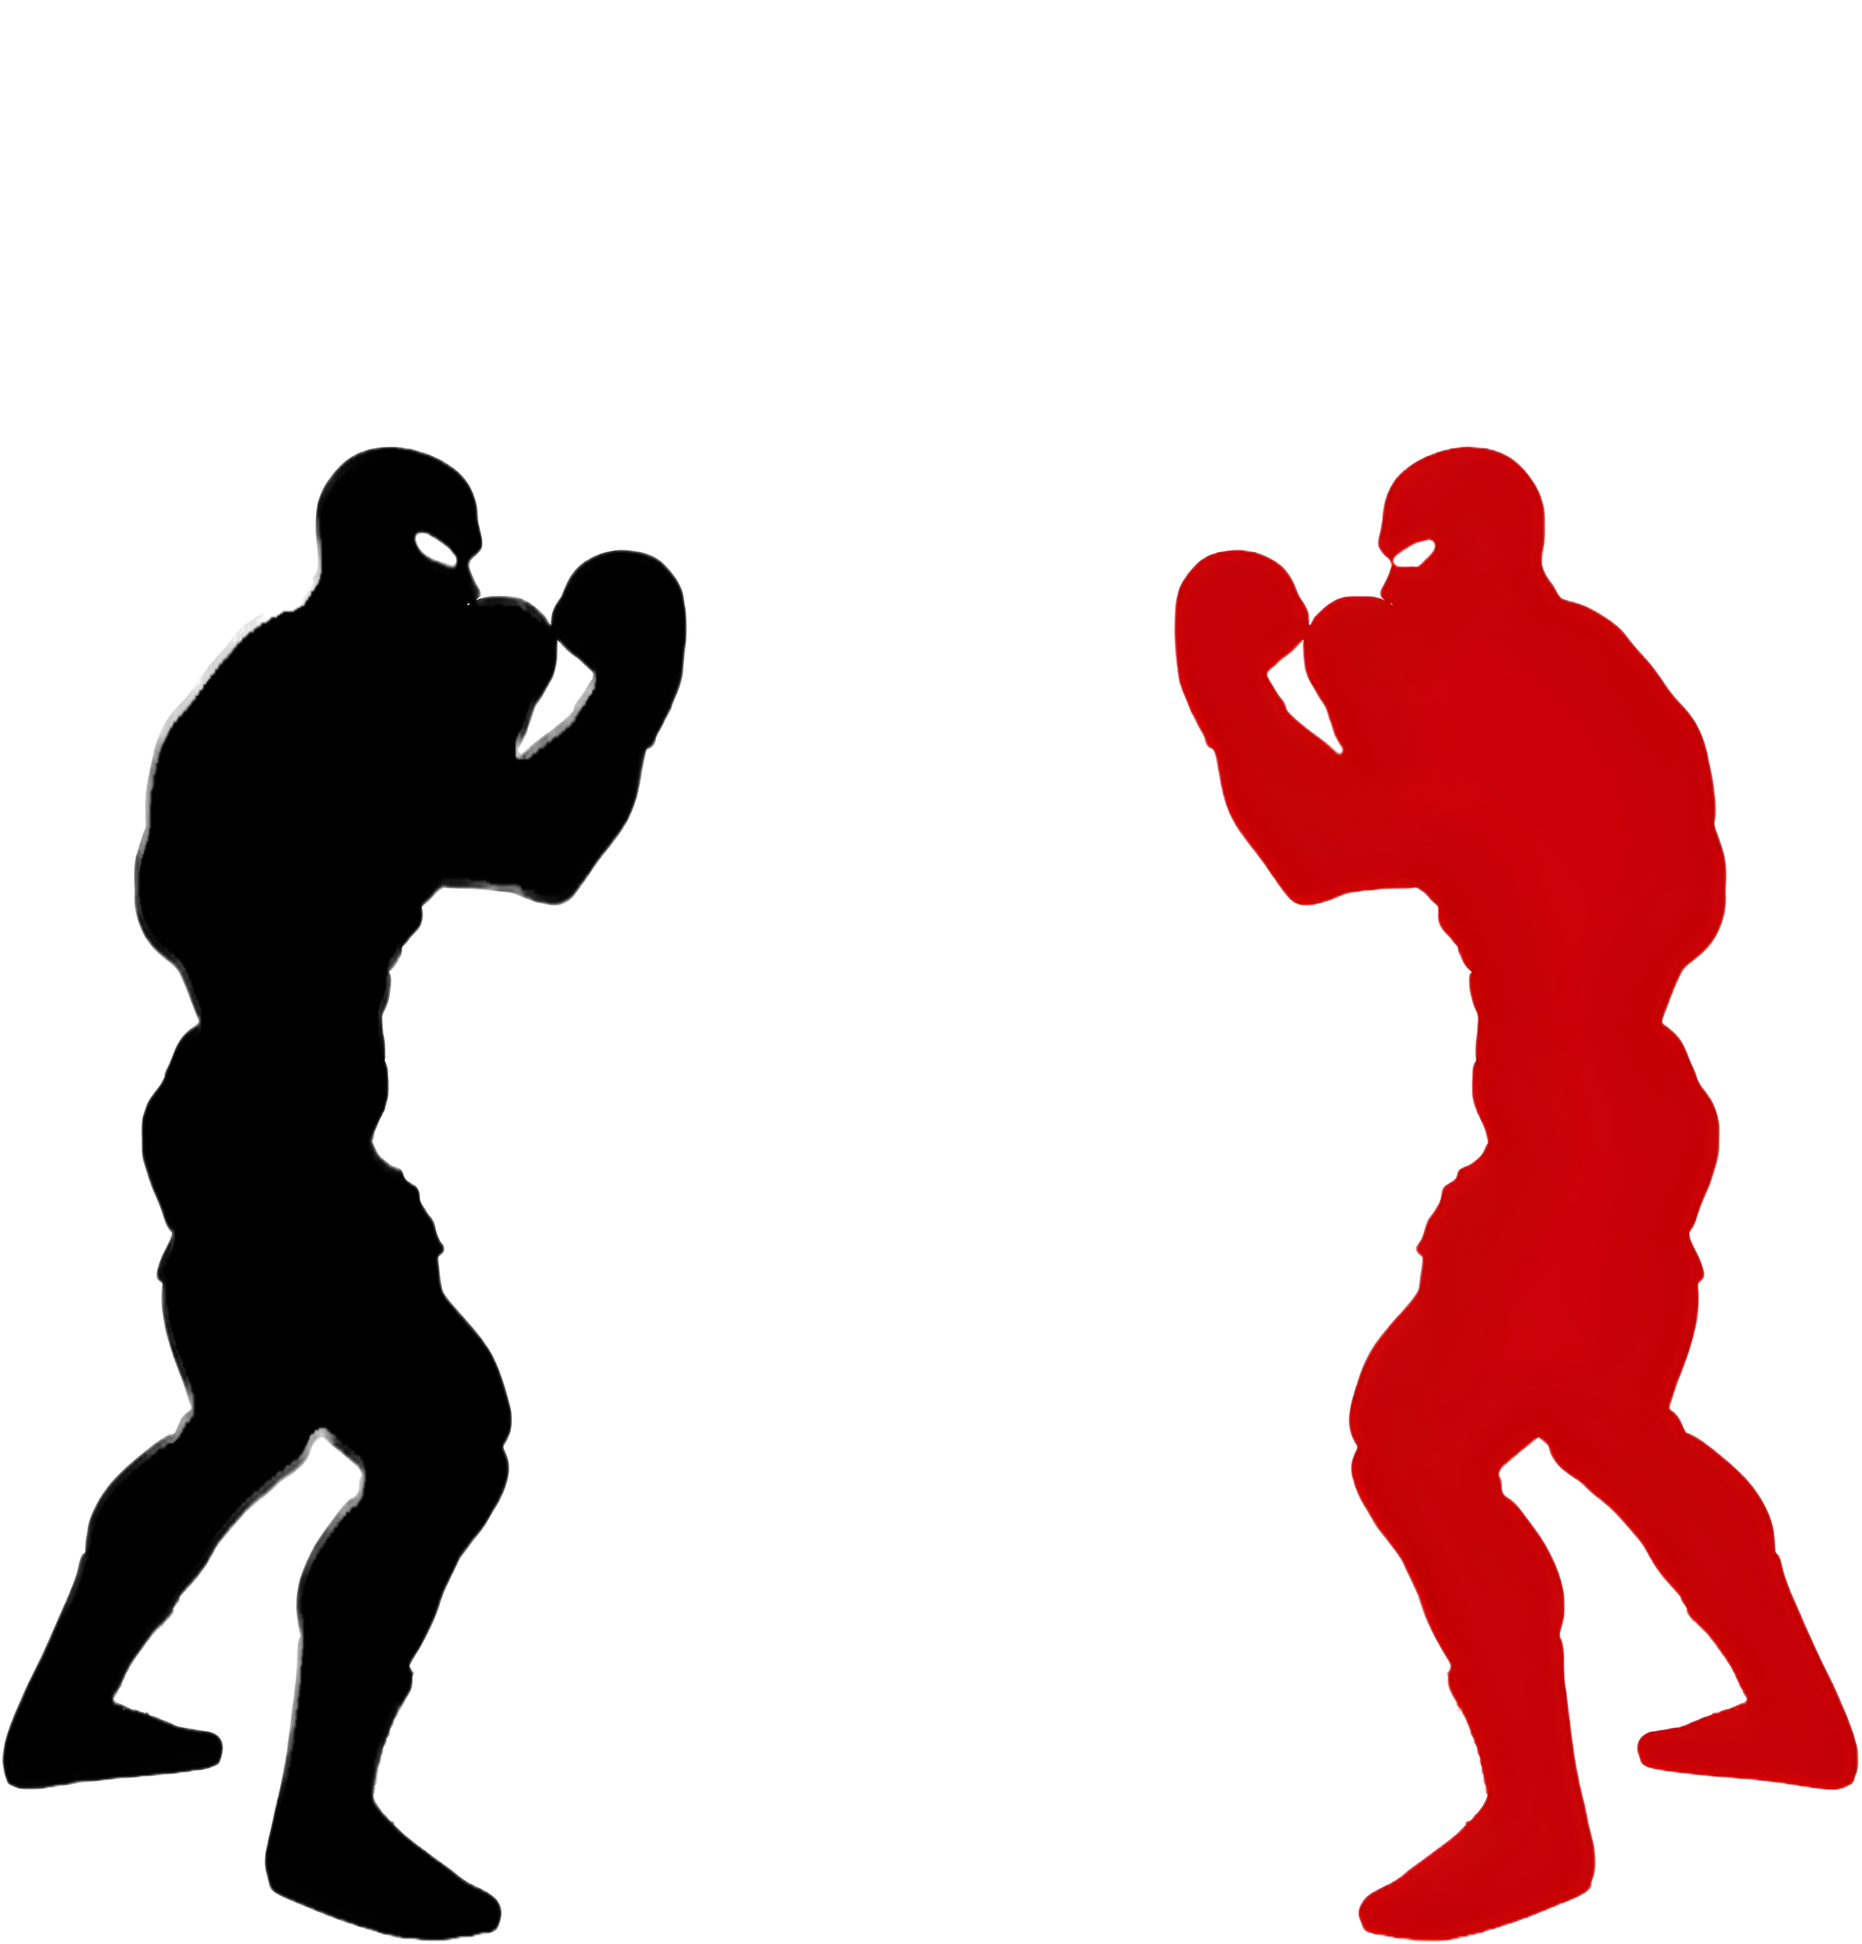
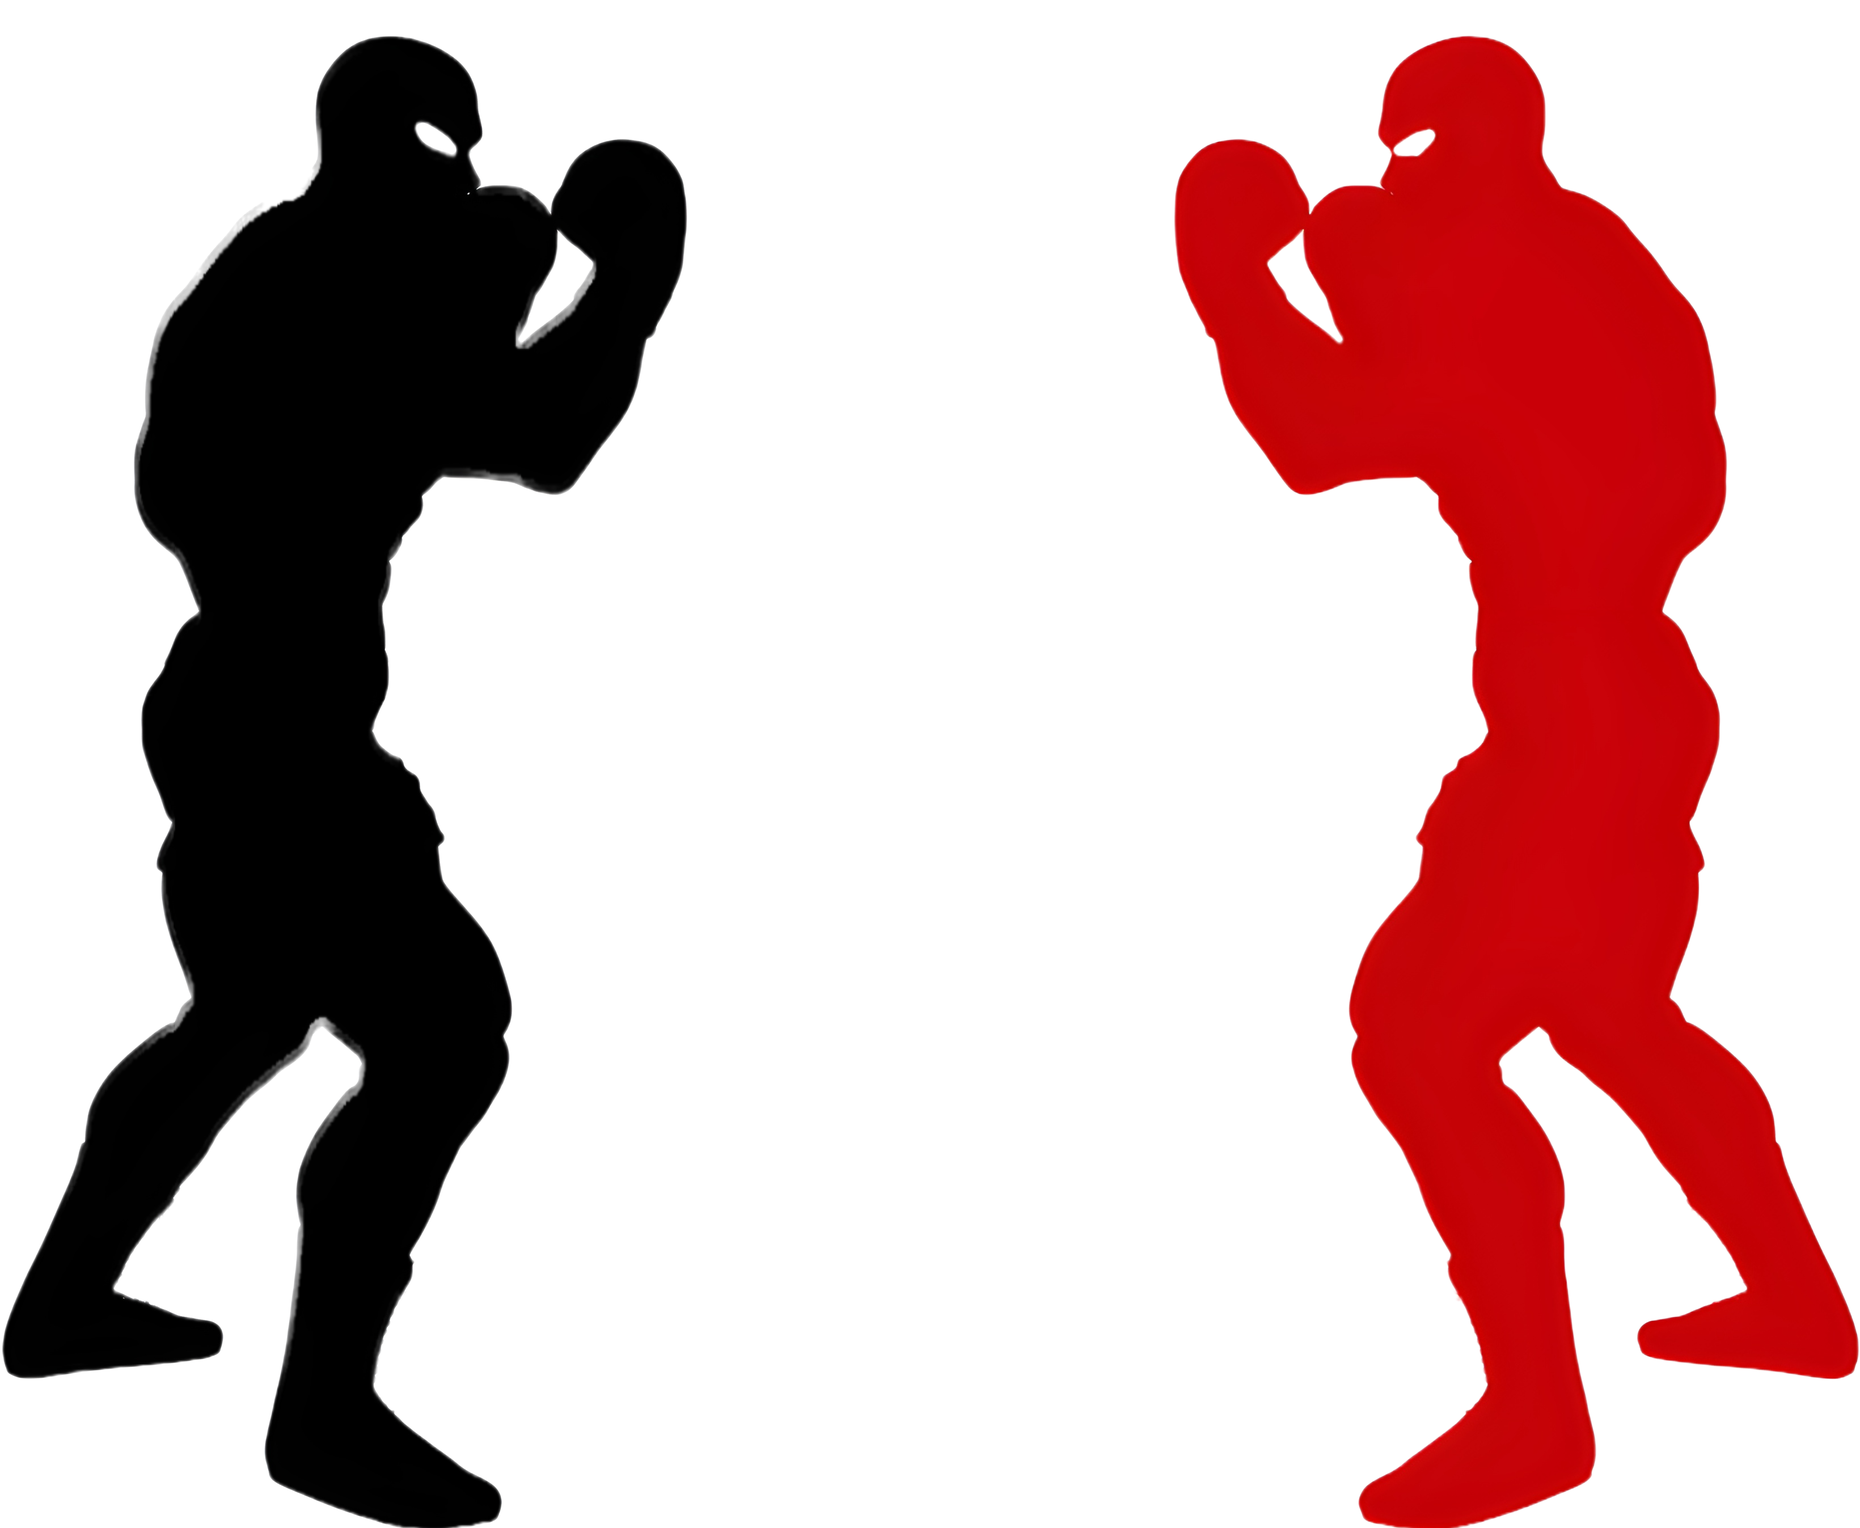
Make background responsive and change layout

diff --git a/index.html b/index.html
@@ -10,14 +10,23 @@
 
 </head>
 <body>
-    <h1>JAB KICK PARRY!</h1>
-    <div id="userScore">Your Score: 0</div>
-    <div id="compScore">Enemy Score: 0</div>
-    <button id="newGame">New Game</button>
-    <button class="gameButtons" id="jab">Jab</button>
-    <button class="gameButtons" id="kick">Kick</button>
-    <button class="gameButtons" id="parry">Parry</button>
-    <div id="roundWinner"></div>
-    <div id="gameWinner"></div>
+    <div class="big_container">
+        <h1>JAB KICK PARRY!</h1>
+        <div class="score_container">
+            <div id="userScore">Your Score: 0</div>
+            <div id="compScore">Enemy Score: 0</div>
+        </div>
+        <button id="newGame">New Game</button>
+        <div id="roundWinner"></div>
+        <div id="gameWinner"></div>
+        <div class="fight_container">
+            <img class="fightScene" src="images/defaultposition.png">
+        </div>
+        <div class="button_container">
+            <button class="gameButtons" id="jab">Jab</button>
+            <button class="gameButtons" id="kick">Kick</button>
+            <button class="gameButtons" id="parry">Parry</button>
+        </div>
+    </div>
 </body>
 </html>

diff --git a/styles.css b/styles.css
@@ -5,6 +5,39 @@
     font-family: 'Press Start 2P', cursive;
 }
 
+
+body {
+    background-image: url("images/street.jpg");
+    background-position: 50% 70%;
+    background-repeat: repeat;
+    background-size: cover;
+}
+
+img { width: 20%; height: auto; }
+
+.big_container {
+    display: flex;
+    flex-direction: column;
+    justify-content: end;
+    flex: 1;
+}
+
+.score_container {
+    margin-top: 3vw;
+    display: flex;
+    flex-direction: row;
+    justify-content: space-around;
+    font-size: 2vw;
+}
+
+.fight_container {
+    flex: 1;
+}
+
+.button_container {
+    flex-direction: row;
+}
+
 h1 {
     margin-top: 3%;
     color: white;
@@ -13,15 +46,12 @@ h1 {
     text-shadow: 0 0 100px #FF0000, 0 0 100px #0000FF;
 }
 
-body {
-    background-image: url("images/street.jpg");
-    background-position: center;
-    background-repeat: no-repeat;
-    background-size:cover;
-}
-
 #userScore, #compScore, #roundWinner {
     color: white;
+}
+
+#newGame {
+
 }
 
 #gameWinner {
